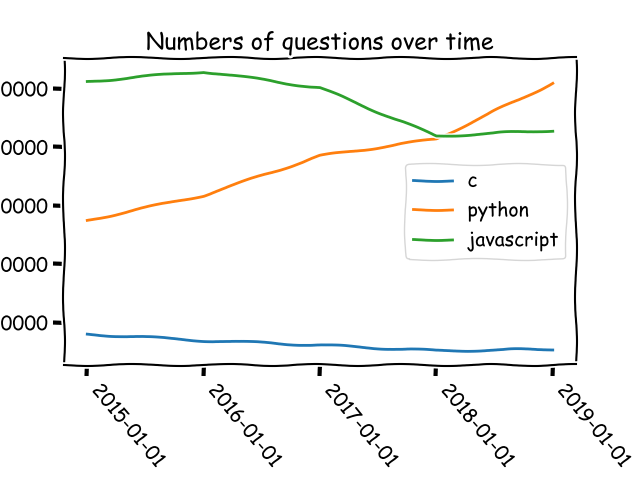
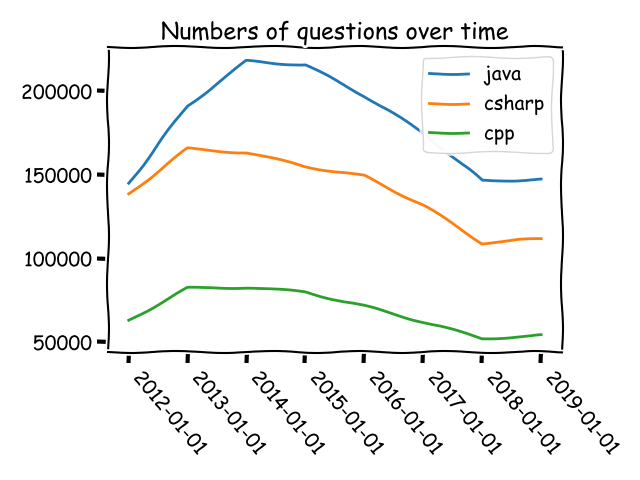
Updating example

diff --git a/README.md b/README.md
@@ -48,7 +48,7 @@ I also don't know which is the minimal supported version for the packages. The h
 [logo]: https://github.com/bachinblack/Stackexchange-graphs-generator/blob/master/site/picture.png "Example graph"
 
 
-`python3 main.py c,python,javascript -f 2015-01-01 -t 2020-01-01 -s 1y -x`
+`python3 main.py java,csharp,cpp -f 2012-01-01 -t 2020-01-01 -s 1y -x`
 
 ![alt text][logoxkcd]
 
